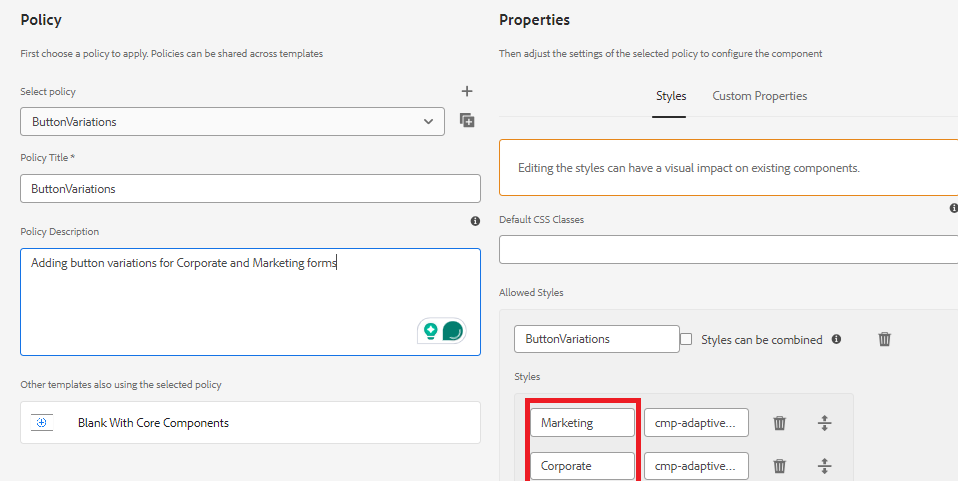
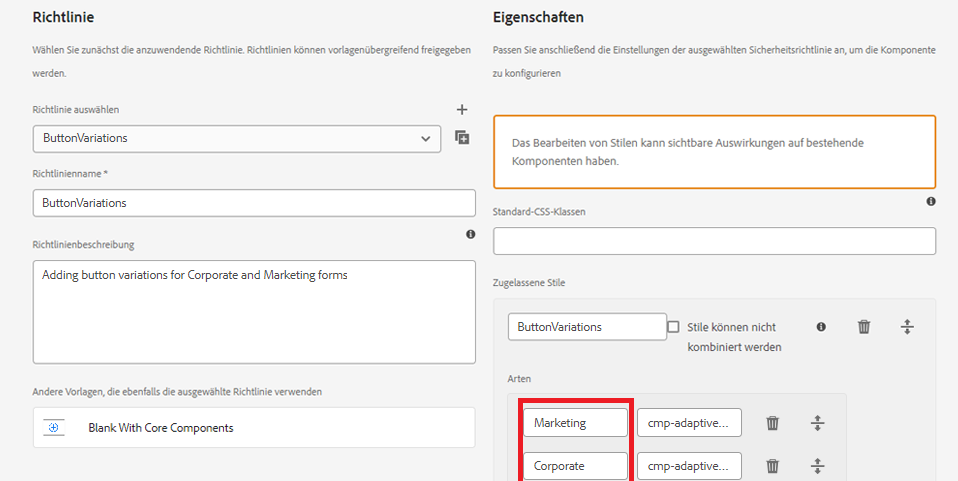
Updated by task 'AUTO_HANDOFF_1728986850284'  Changes for core/source commit https://git.corp.adobe.com/AdobeDocs/experience-manager-learn.en/commit/86d282b426402c9ad6be84e9db92598d0dc54f85

diff --git a/help/cloud-service/forms/style-system/create-variations.md b/help/cloud-service/forms/style-system/create-variations.md
@@ -1,6 +1,6 @@
 ---
 title: Verwenden des Stilsystems in AEM Forms
-description: Definieren Sie die CSS-Klassen für die Varianten
+description: Definieren der CSS-Klassen für die Varianten
 solution: Experience Manager, Experience Manager Forms
 type: Documentation
 role: Developer
@@ -11,21 +11,21 @@ feature: Adaptive Forms
 badgeVersions: label="AEM Forms as a Cloud Service" before-title="false"
 jira: KT-16276
 source-git-commit: 86d282b426402c9ad6be84e9db92598d0dc54f85
-workflow-type: tm+mt
+workflow-type: ht
 source-wordcount: '245'
-ht-degree: 3%
+ht-degree: 100%
 
 ---
 
 # Erstellen von Varianten für die Schaltflächenkomponente
 
-Nachdem das Design geklont wurde, öffnen Sie das Projekt mit visuellem Studio-Code. Sie sollten eine ähnliche Ansicht sehen
-im visuellen Studio-Code
+Nachdem Sie das Design geklont haben, öffnen Sie das Projekt mit Visual Studio Code. Sie sollten im
 ![Projekt-Explorer](assets/easel-theme.png)
+in Visual Studio Code eine ähnliche Ansicht sehen
 
-Öffnen Sie die Datei src->components->button->_button.scss . Wir werden unsere benutzerdefinierten Varianten in dieser Datei definieren.
+Öffnen Sie „src->Komponenten->Schaltfläche->_button.scss-Datei“. Wir werden unsere benutzerdefinierten Varianten in dieser Datei definieren.
 
-## Variation von Unternehmen
+## Variante für Unternehmen
 
 ```css
 .cmp-adaptiveform-button-corporate {
@@ -44,19 +44,19 @@ im visuellen Studio-Code
 
 ## Erklärung
 
-* **cmp-adaptiveform-button—corporate**: Dies ist die Haupt-Wrapper- oder Container-Klasse für die Komponente &quot;cmp-adaptiveform-button—corporate&quot;.
+* **cmp-adaptiveform-button—corporate**: Dies ist die Haupt-Wrapper- oder Container-Klasse für die Komponente „cmp-adaptiveform-button—corporate“.
 Alle Stile oder Mixins innerhalb dieses Blocks gelten für Elemente innerhalb dieser Klasse.
-* **@include container**: Verwendet ein Mixin namens &quot;container&quot;, das in _mixins.scss definiert ist. Der Mixin-Container wendet normalerweise Layout-bezogene Stile wie das Einrichten von Rändern, Abständen oder andere Strukturstile an, um sicherzustellen, dass sich der Container konsistent verhält.
-* **.cmp-adaptiveform-button**: Innerhalb des Schaltflächenblocks &quot;Corporate-style-button&quot;zielen Sie auf das untergeordnete Element mit der Klasse .cmp-adaptiveform-button ab.
-* **&amp;__widget**: Das Symbol &amp; bezieht sich auf den übergeordneten Selektor, der in diesem Fall .cmp-adaptiveform-button lautet.
-Das bedeutet, dass die endgültige Zielklasse .cmp-adaptiveform-button__widget ist, eine BEM-Style-Klasse (Block Element Modifier), die eine Unterkomponente (das Element __widget ) innerhalb des Bausteins .cmp-adaptiveform-button darstellt.
-* **@include primary-button**: Dies umfasst ein Primärschaltflächen-Mixin, das in _mixin.scss definiert ist, und fügt Stile für die Schaltfläche hinzu (wie Abstand, Farben, Hover-Effekte usw.). Die Eigenschaften background,text-transform,border-radius,color, die in der primären Schaltfläche des Mixins definiert sind, werden überschrieben.
+* **@include container**: Verwendet ein Mixin namens „container“, das in „_mixins.scss“ definiert ist. Der Mixin-Container wendet normalerweise Layout-bezogene Stile wie das Einrichten von Rändern, Abständen oder andere Strukturstile an, um sicherzustellen, dass sich der Container konsistent verhält.
+* **.cmp-adaptiveform-button**: Innerhalb des Blocks „corporate-style-button“ zielen Sie auf das untergeordnete Element mit der Klasse „.cmp-adaptiveform-button“ ab.
+* **&amp;__widget**: Das Symbol „&amp;“ bezieht sich auf den übergeordneten Selektor, der in diesem Fall „.cmp-adaptiveform-button“ lautet.
+Das bedeutet, dass die Klasse, auf die endgültig abgezielt wird, „.cmp-adaptiveform-button__widget“ ist, eine Klasse im BEM-Stil (Block Element Modifier), die eine Unterkomponente (das Element „__widget “) innerhalb des Blocks „.cmp-adaptiveform-button“ darstellt.
+* **@include primary-button**: Dies umfasst ein Mixin „primary-button“, das in „_mixin.scss definiert“ ist, und fügt Stile für die Schaltfläche hinzu (wie Abstand, Farben und Hover-Effekte). Die Eigenschaften „background“, „text-transform“, „border-radius“ und „color“, die im Mixin „primary-button“ definiert sind, werden überschrieben.
 
-Die Datei _mixins.scss wird unter src->site definiert, wie im Screenshot unten dargestellt
+Die Datei „_mixins.scss“ wird unter „src->Standort“ definiert, wie im Screenshot unten dargestellt.
 
 ![mixin.scss](assets/mixins.png)
 
-## Marketing-Variante
+## Variante für Marketing
 
 ```css
 .cmp-adaptiveform-button--marketing {
@@ -92,6 +92,6 @@ Die Datei _mixins.scss wird unter src->site definiert, wie im Screenshot unten d
 
 ## Nächste Schritte
 
-[Varianten testen](./build.md)
+[Testen der Varianten](./build.md)
 
 

diff --git a/help/cloud-service/forms/style-system/build.md b/help/cloud-service/forms/style-system/build.md
@@ -1,6 +1,6 @@
 ---
 title: Verwenden des Stilsystems in AEM Forms
-description: Erstellen des Designprojekts
+description: Erstellen des Design-Projekts
 solution: Experience Manager, Experience Manager Forms
 type: Documentation
 role: Developer
@@ -11,37 +11,37 @@ feature: Adaptive Forms
 badgeVersions: label="AEM Forms as a Cloud Service" before-title="false"
 jira: KT-16276
 source-git-commit: 86d282b426402c9ad6be84e9db92598d0dc54f85
-workflow-type: tm+mt
+workflow-type: ht
 source-wordcount: '219'
-ht-degree: 2%
+ht-degree: 100%
 
 ---
 
 
-# Änderungen testen
+# Testen der Änderungen
 
-Erstellen Sie ein adaptives Formular basierend auf der Vorlage **&quot;Leer mit Kernkomponenten&quot;** . Ziehen Sie drei Schaltflächen in das Formular und beschriften Sie sie mit &quot;Unternehmen&quot;, &quot;Marketing&quot;und &quot;Standard&quot;.
-Weisen Sie den Schaltflächen Unternehmen und Marketing die entsprechenden Stilvarianten zu, indem Sie den Pinsel auswählen, wie in der Abbildung dargestellt
+Erstelle Sie ein adaptives Formular basierend auf der Vorlage **„Leer mit Kernkomponenten“**. Ziehen Sie drei Schaltflächen per Drag-and-Drop in das Formular und beschriften Sie sie mit „Unternehmen“, „Marketing“ und „Standard“.
+Weisen Sie den Schaltflächen „Unternehmen“ und „Marketing“ die entsprechenden Stilvarianten zu, indem Sie den Pinsel wie dargestellt auswählen.
 
 ![styles](assets/marketing-variation.png)
 
-## Erstellen des Designprojekts
+## Erstellen des Design-Projekts
 
-Der nächste Schritt besteht darin, das Designprojekt zu erstellen. Navigieren Sie zum Stammordner Ihres Designprojekts und führen Sie den Befehl _**npm run build**_ aus, wie im Screenshot unten gezeigt.
+Der nächste Schritt besteht darin, das Design-Projekt zu erstellen. Navigieren Sie zum Stammordner Ihres Design-Projekts und führen Sie den Befehl _**npm run build**_ aus, wie im Screenshot unten gezeigt.
 
 ![build-theme](assets/build-theme.png)
 
-Sobald das Designprojekt erfolgreich erstellt wurde, können Sie die Änderungen testen.
+Sobald das Design-Projekt erfolgreich erstellt wurde, können Sie die Änderungen testen.
 
-## Schnelle und einfache Möglichkeit, Ihre CSS zu testen
+## Eine schnelle und einfache Möglichkeit zum Testen Ihrer CSS-Datei
 
-* Öffnen Sie die Datei &quot;theme.css&quot;im Ordner &quot;dist&quot;Ihres Designprojekts. Wählen Sie den gesamten Dateiinhalt aus und kopieren Sie ihn.
-* Vorschau des im vorherigen Schritt erstellten Formulars
-* Klicken Sie mit der rechten Maustaste auf eine der Schaltflächen und wählen Sie Inspect aus, um die Entwicklerkonsole zu öffnen.
-* Klicken Sie in der Entwicklerkonsole auf die Datei theme.css , um die Datei theme.css zu öffnen.
-* Wählen und löschen Sie den gesamten Inhalt von theme.css mithilfe von CTR-A und klicken Sie auf die Schaltfläche Löschen .
-* Kopieren Sie den Inhalt von theme.css, den Sie im vorherigen Schritt erstellt haben, und fügen Sie ihn ein.
+* Öffnen Sie die Datei „theme.css“ im Ordner „dist“ Ihres Design-Projekts. Wählen Sie den gesamten Dateiinhalt aus und kopieren Sie ihn.
+* Zeigen Sie das im vorherigen Schritt erstellte Formular in einer Vorschau an.
+* Klicken Sie mit der rechten Maustaste auf eine der Schaltflächen und wählen Sie „Inspizieren“ aus, um die Developer Console zu öffnen.
+* Klicken Sie in der Developer Console auf die Datei „theme.css“ , um die Datei „theme.css“ zu öffnen.
+* Wählen Sie den gesamten Inhalt von „theme.css“ mithilfe von Strg+A und klicken Sie auf die Schaltfläche „Löschen“, um ihn zu löschen.
+* Kopieren Sie den Inhalt von „theme.css“, den Sie im vorherigen Schritt erstellt haben, und fügen Sie ihn ein.
 * Die Schaltflächen sollten wie unten gezeigt mit den entsprechenden Stilen aktualisiert werden.
 
-![final-button](assets/final-state-buttons.png)
+![final-buttons](assets/final-state-buttons.png)
 

diff --git a/help/cloud-service/forms/style-system/introduction.md b/help/cloud-service/forms/style-system/introduction.md
@@ -1,6 +1,6 @@
 ---
 title: Verwenden des Stilsystems in AEM Forms
-description: Erstellen von Stilvarianten für Schaltflächenkomponenten
+description: Erstellen von Stilvarianten für die Schaltflächenkomponente
 solution: Experience Manager, Experience Manager Forms
 type: Documentation
 role: Developer
@@ -11,33 +11,33 @@ feature: Adaptive Forms
 badgeVersions: label="AEM Forms as a Cloud Service" before-title="false"
 jira: KT-16276
 source-git-commit: 86d282b426402c9ad6be84e9db92598d0dc54f85
-workflow-type: tm+mt
+workflow-type: ht
 source-wordcount: '231'
-ht-degree: 24%
+ht-degree: 100%
 
 ---
 
 # Einführung
 
-Mit dem Stilsystem in Adobe Experience Manager (AEM) können Benutzer mehrere visuelle Varianten einer Komponente erstellen und dann auswählen, welcher Stil beim Erstellen eines Formulars verwendet werden soll. Dadurch werden Komponenten flexibler und wiederverwendbarer, ohne dass benutzerdefinierte Komponenten für jeden Stil erstellt werden müssen.
+Mit dem Stilsystem in Adobe Experience Manager (AEM) können Benutzende mehrere visuelle Varianten einer Komponente erstellen und dann auswählen, welcher Stil beim Erstellen eines Formulars verwendet werden soll. Dadurch werden Komponenten flexibler und wiederverwendbarer, ohne dass für jeden Stil benutzerdefinierte Komponenten erstellt werden müssen.
 
 Dieser Artikel hilft Ihnen beim Erstellen von Varianten der Schaltflächenkomponente und beim Testen der Varianten in Ihrer lokalen Cloud-fähigen Umgebung, bevor Sie die Änderungen mithilfe von Cloud Manager in die Cloud-Instanz übertragen.
 
-Der Screenshot zeigt die zwei Stilvarianten für die Schaltflächenkomponente, die dem Formularautor zur Verfügung stehen.
+Der Screenshot zeigt die zwei Stilvarianten für die Schaltflächenkomponente, die der Erstellerin bzw. dem Ersteller des Formulars zur Verfügung stehen.
 
 
-![Schaltflächenvarianten](assets/button-variations.png)
+![button-variations](assets/button-variations.png)
 
 ## Voraussetzungen
 
-* AEM Forms Cloud-fähige Instanz mit Kernkomponenten.
-* Klonen eines Themas: Sie müssen sich mit dem Klonen eines Themas vertraut machen. Für diese Anleitung haben wir das [easel-Design](https://github.com/adobe/aem-forms-theme-easel) geklont. Sie können alle verfügbaren Designs nach Ihren Bedürfnissen klonen.
+* Cloud-fähige Instanz mit Kernkomponenten in AEM Forms
+* Klonen eines Designs: Sie müssen mit dem Klonen eines Designs vertraut sein. Für diese Anleitung haben wir das [easel-Design](https://github.com/adobe/aem-forms-theme-easel) geklont. Sie können alle verfügbaren Designs nach Ihren Bedürfnissen klonen.
 
-* Installieren Sie die neueste Version von Apache Maven. Apache Maven ist ein Werkzeug zur Automatisierung von Builds, das häufig für Java™-Projekte verwendet wird. Durch die Installation der neuesten Version stellen Sie sicher, dass Sie über die erforderlichen Abhängigkeiten für die Design-Anpassung verfügen.
+* Installieren Sie die neueste Version von Apache Maven. Apache Maven ist ein Tool zur Automatisierung von Builds, das häufig für Java™-Projekte verwendet wird. Durch die Installation der neuesten Version stellen Sie sicher, dass Sie über die erforderlichen Abhängigkeiten für die Design-Anpassung verfügen.
 * Installieren Sie einen Nur-Text-Editor. Beispielsweise Microsoft® Visual Studio Code. Die Verwendung eines Texteditors wie Microsoft® Visual Studio Code bietet eine benutzerfreundliche Umgebung zum Bearbeiten und Ändern von Design-Dateien.
 
 
 
 ## Nächste Schritte
 
-[Stilrichtlinie erstellen](./style-policy.md)
+[Erstellen einer Stilrichtlinie](./style-policy.md)

diff --git a/help/cloud-service/forms/style-system/style-policy.md b/help/cloud-service/forms/style-system/style-policy.md
@@ -11,18 +11,18 @@ feature: Adaptive Forms
 badgeVersions: label="AEM Forms as a Cloud Service" before-title="false"
 jira: KT-16276
 source-git-commit: 86d282b426402c9ad6be84e9db92598d0dc54f85
-workflow-type: tm+mt
+workflow-type: ht
 source-wordcount: '139'
-ht-degree: 10%
+ht-degree: 100%
 
 ---
 
 # Definieren des Stils in der Richtlinie für die Komponente
 
-* Melden Sie sich bei Ihrer lokalen Cloud-fähigen AEM-Instanz an und navigieren Sie zu Tools | Allgemein | Vorlagen | Ihren Projektnamen.
+* Melden Sie sich bei Ihrer lokalen Cloud-fähigen AEM-Instanz an und navigieren Sie zu Tools | Allgemein | Vorlagen | Ihr Projektname.
 
 * Wählen Sie die Vorlage **Leer mit Kernkomponenten** aus und öffnen Sie sie im Bearbeitungsmodus.
-* Klicken Sie auf das Richtliniensymbol der Schaltflächenkomponente, um den Richtlinien-Editor zu öffnen.
+* Klicken Sie auf das Richtliniensymbol der Schaltflächenkomponente, um den Richtlinieneditor zu öffnen.
 
 * ![button-policy](assets/button-policy.png)
 
@@ -30,15 +30,15 @@ Definieren Sie die Richtlinie wie unten dargestellt.
 
 ![button-policy-details](assets/styling-policy.png)
 
-Wir haben zwei Stile/Varianten definiert, die als Marketing und Unternehmen bezeichnet werden. Diese Varianten sind mit entsprechenden CSS-Klassen verknüpft.**Stellen Sie sicher, dass vor und nach den CSS-Klassennamen** kein Leerzeichen vorhanden ist.
+Wir haben zwei Stile/Varianten mit den Bezeichnungen „Marketing“ und „Unternehmen“ definiert. Diese Varianten sind mit entsprechenden CSS-Klassen verknüpft.**Stellen Sie sicher, dass vor und nach den CSS-Klassennamen kein Leerzeichen vorhanden ist**.
 Speichern Sie Ihre Änderungen.
 
 | Stil | CSS-Klasse |
 |-----------|------------------------------------|
-| Marketing | cmp-adaptiveform-button—marketing |
-| Unternehmen | cmp-adaptiveform-button—corporate |
+| Marketing | cmp-adaptiveform-button--marketing |
+| Unternehmen | cmp-adaptiveform-button--corporate |
 
-Diese CSS-Klassen werden in der CSS-Datei der Komponente (_button.scss) definiert.
+Diese CSS-Klassen werden in der SCSS-Datei der Komponente (_button.scss) definiert.
 
 ## Nächste Schritte
 

diff --git a/help/cloud-service/TOC.md b/help/cloud-service/TOC.md
@@ -7,9 +7,9 @@ sub-product: Experience Manager as a Cloud Service
 version: Cloud Service
 team: TM
 source-git-commit: 86d282b426402c9ad6be84e9db92598d0dc54f85
-workflow-type: tm+mt
+workflow-type: ht
 source-wordcount: '1307'
-ht-degree: 99%
+ht-degree: 100%
 
 ---
 
@@ -271,9 +271,9 @@ ht-degree: 99%
       + [Testen der Lösung](./forms/form-data-analytics/test.md)
    + Erstellen von Schaltflächenvarianten{#style-system}
       + [Einführung](./forms/style-system/introduction.md)
-      + [Richtlinie definieren](./forms/style-system/style-policy.md)
-      + [Varianten definieren](./forms/style-system/create-variations.md)
-      + [Testvarianten](./forms/style-system/build.md)
+      + [Definieren der Richtlinie](./forms/style-system/style-policy.md)
+      + [Definieren der Varianten](./forms/style-system/create-variations.md)
+      + [Testen der Varianten](./forms/style-system/build.md)
    + Verwenden vertikaler Tabs{#using-vertical-tabs}
       + [1. Einführung](./forms/using-vertical-tabs/introduction.md)
       + [2. Erstellen des Formulars](./forms/using-vertical-tabs/create-af.md)
